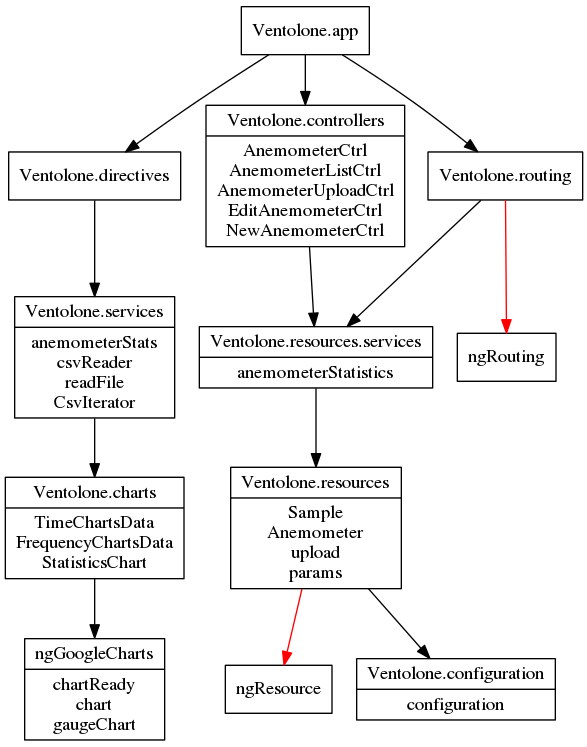
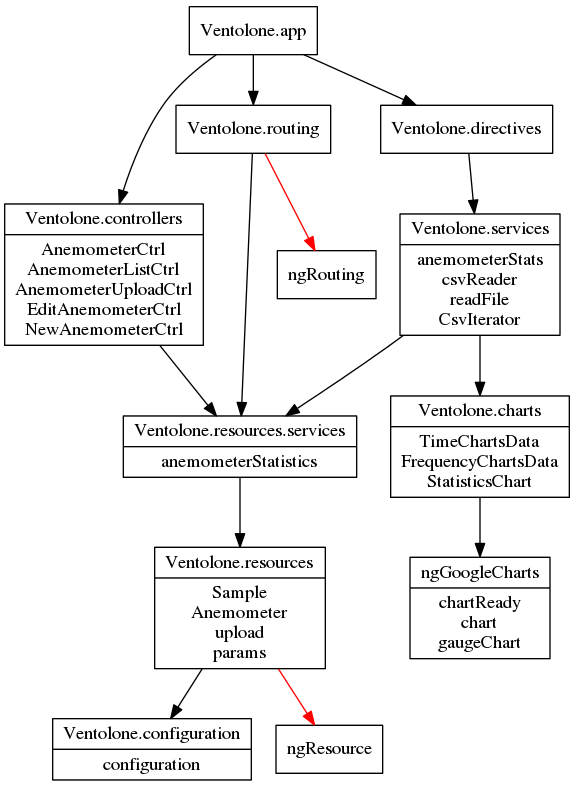
corrected dependencies

Changed region(s): [[0.0, 0.0, 1.0, 1.0], [0.6504, 0.8005, 0.68, 0.8313], [0.6209, 0.7697, 0.6504, 0.8005]]

diff --git a/src/services.js b/src/services.js
@@ -1,5 +1,6 @@
 angular.module('Ventolone.services', [
-  'Ventolone.charts'
+  'Ventolone.charts',
+  'Ventolone.resources.services'
 ])
   .factory('readFile', function($q, $rootScope) {
     return function(file) {
